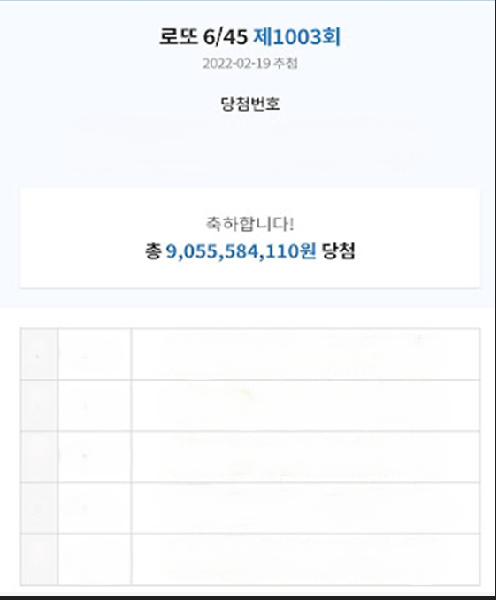
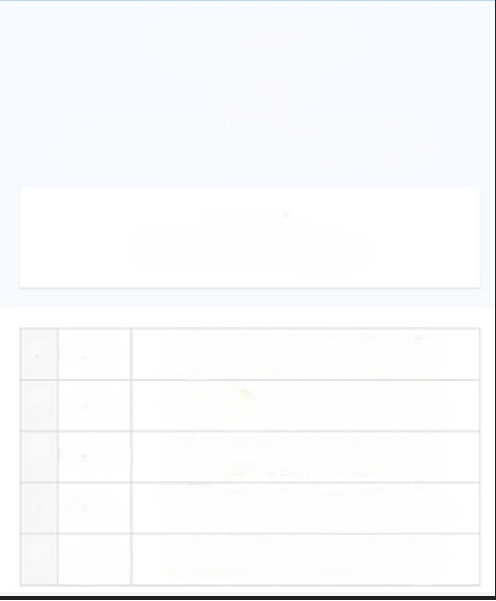
Last 작업 완료
병합만 남았습니다.

Changed region(s): [[0.2722, 0.3594, 0.7258, 0.4493], [0.3024, 0.03, 0.6956, 0.1198], [0.4234, 0.1498, 0.5746, 0.2097]]

diff --git a/LottoProject/src/kr/co/lotto/LottoLast.java b/LottoProject/src/kr/co/lotto/LottoLast.java
@@ -2,6 +2,7 @@ package kr.co.lotto;
 
 import java.awt.Color;
 import java.awt.Dimension;
+import java.awt.Font;
 import java.util.ArrayList;
 import java.util.Arrays;
 import java.util.HashMap;
@@ -12,6 +13,7 @@ import java.util.Random;
 import java.util.Set;
 import java.util.TreeSet;
 
+import javax.swing.Icon;
 import javax.swing.ImageIcon;
 import javax.swing.JButton;
 import javax.swing.JFrame;
@@ -38,15 +40,45 @@ public class LottoLast extends JFrame {
 		Map<String, List<Integer>> map = l.map;
 		JLabel pnl = new JLabel();
 		List<Integer> list = new ArrayList<Integer>();
-		ImageIcon icon = new ImageIcon(LottoLast.class.getResource("/kr/co/lotto/로또1.png"));
-		ImageIcon icon2 = new ImageIcon(LottoLast.class.getResource("/kr/co/lotto/lotto.png"));
+		ImageIcon icon = new ImageIcon(LottoLast.class.getResource("/kr/co/lotto/lotto.png"));
+		ImageIcon icon2 = new ImageIcon(LottoLast.class.getResource("/kr/co/lotto/lottoLog.png"));
+		ImageIcon icon3 = new ImageIcon(LottoLast.class.getResource("/kr/co/lotto/lottoLog2.png"));
+		ImageIcon icon4 = new ImageIcon(LottoLast.class.getResource("/kr/co/lotto/핑크원형.png"));
+		ImageIcon icon5 = new ImageIcon(LottoLast.class.getResource("/kr/co/lotto/핑크원형10.png"));
+		ImageIcon icon6 = new ImageIcon(LottoLast.class.getResource("/kr/co/lotto/핑크원형20.png"));
+		ImageIcon icon7 = new ImageIcon(LottoLast.class.getResource("/kr/co/lotto/핑크원형30.png"));
+		ImageIcon icon8 = new ImageIcon(LottoLast.class.getResource("/kr/co/lotto/핑크원형40.png"));
+		ImageIcon icon9 = new ImageIcon(LottoLast.class.getResource("/kr/co/lotto/lotto축하.jpg"));
 		char c = 'A'; // 최초 번호 부여
+		// 제목 메소드
+//		JLabel lbG = new JLabel("로또 6/45 제 1회");
+//		lbG.setBounds(180, 50, 200, 100);
+//		lbG.setFont(new Font("로또 6/45 제 1회?", Font.BOLD, 20));
+//		lbG.setForeground(Color.PINK);
+//		pnl.add(lbG);
+
+		// 당첨번호 라벨
+		JLabel lbLo = new JLabel("당첨번호");
+		lbLo.setBounds(200, 110, 200, 100);
+		lbLo.setFont(new Font(" ", Font.BOLD, 25));
+		pnl.add(lbLo);
+
+		// 로또 로고
+		JLabel lbLog = new JLabel();
+		lbLog.setIcon(icon2);
+		lbLog.setBounds(0, 0, 500, 130);
+		pnl.add(lbLog);
+		// 로또 밑에 로고
+		JLabel lbLog2 = new JLabel();
+		lbLog2.setIcon(icon3);
+		lbLog2.setBounds(getX(), 630, 500, 40);
+		pnl.add(lbLog2);
 
 		List<Integer> listS = new ArrayList<Integer>();
 		for (Integer i : set) {
 			listS.add(i);
 		}
-	// 임의의 값 넣는 조건
+		// 임의의 값 넣는 조건
 		for (int j = 1; j < 7; j++) {
 			list.add(j);
 		}
@@ -56,25 +88,42 @@ public class LottoLast extends JFrame {
 			map.put(String.valueOf(c2), list);
 		}
 // 당첨 번호 출력 + 보너스 번호 출력
-		int x = 40;
+		int x = 0;
 		int y = 180;
 		int count = 0;
 		for (int i = 0; i < listS.size(); i++) {
 			char c2 = (char) (c + i);
 			String s = String.valueOf(c2);
 			if (i == listS.size() - 1) {
-				x += 30;
+				x += 50;
 				JLabel lb2 = new JLabel();
 				lb2.setText("보너스");
-				lb2.setBounds(x, y, 50, 50);
+				lb2.setBounds(x, y, 60, 60);
+				lb2.setHorizontalTextPosition(JLabel.CENTER);
+				lb2.setFont(new Font(" ", Font.BOLD, 15));
 				pnl.add(lb2);
+			} else {
+				x += 50;
+				JLabel lb2 = new JLabel();
+				lb2.setText("" + listS.get(i));
+				lb2.setHorizontalTextPosition(JLabel.CENTER);
+				lb2.setFont(new Font(" ", Font.BOLD, 17));
+				lb2.setForeground(Color.WHITE);
+				lb2.setBounds(x, y, 60, 60);
+				pnl.add(lb2);
+				// 숫자 크기별 이미 넣기
+				int a = listS.get(i);
+				숫자크기별이미지(a, icon4, icon5, icon6, icon7, icon8, lb2);
 			}
-			x += 50;
-			JLabel lb2 = new JLabel();
-			lb2.setText("" + listS.get(i));
-			lb2.setBounds(x, y, 50, 50);
-			pnl.add(lb2);
+			
 		}
+		// 당첨에 따라 출력
+		int first = 0;
+		int second = 0;
+		int third = 0;
+		int four = 0;
+		int five = 0;
+		int mess = 0;
 		// 당첨 여부 조회
 		// 당첨 번호와 조회
 		int clap = 0;
@@ -82,7 +131,7 @@ public class LottoLast extends JFrame {
 		int clap1 = 0;
 		int x2 = 70;
 		int y2 = 380;
-
+		// 당첨번호 조회 메소드
 		for (int i = 0; i < map.size(); i++) {
 			char c2 = (char) (c + i);
 			String s = String.valueOf(c2);
@@ -98,79 +147,141 @@ public class LottoLast extends JFrame {
 						}
 					}
 				}
-				
 			}
+
 			if (clap == 3) {
-				JLabel lbD = new JLabel();
-				lbD.setText("5등당첨");
-				lbD.setBounds(x2, y2, 50, 50);
-				pnl.add(lbD);
+				// 5등
+				당첨메소드(pnl, x2, y2, 5);
+				five++;
 			} else if (clap == 4) {
-				JLabel lbD = new JLabel();
-				lbD.setText("4등당첨");
-				lbD.setBounds(x2, y2, 50, 50);
-				pnl.add(lbD);
+				// 4등
+				당첨메소드(pnl, x2, y2, 4);
+				four++;
 			} else if (clap == 5) {
-				JLabel lbD = new JLabel();
-				lbD.setText("3등당첨");
-				lbD.setBounds(x2, y2, 50, 50);
-				pnl.add(lbD);
+				// 3등
+				당첨메소드(pnl, x2, y2, 3);
+				third++;
 			} else if (clap == 5 && clap1 == 1) {
-				JLabel lbD = new JLabel();
-				lbD.setText("2등당첨");
-				lbD.setBounds(x2, y2, 50, 50);
-				pnl.add(lbD);
+				// 2등
+				당첨메소드(pnl, x2, y2, 2);
+				second++;
 			} else if (clap == 6) {
-				JLabel lbD = new JLabel();
-				lbD.setText("1등당첨");
-				lbD.setBounds(x2, y2, 50, 50);
-				pnl.add(lbD);
+				// 1등
+				당첨메소드(pnl, x2, y2, 1);
+				first++;
 			} else {
-				JLabel lbD = new JLabel();
-				lbD.setText("미당첨");
-				lbD.setBounds(x2, y2, 50, 50);
-				pnl.add(lbD);
+				// 꽝...
+				당첨메소드(pnl, x2, y2, 0);
+				mess++;
 			}
 			y2 += 51;
 			clap = 0;
 			clap1 = 0;
 		}
 
+		if (first > 0) {
+			당첨메시지출력(pnl, 1, icon9);
+		} else if (second > 0 && first <= 0) {
+			당첨메시지출력(pnl, 2, icon9);
+		} else if (third > 0 && second <= 0 && first <= 0) {
+			당첨메시지출력(pnl, 3, null);
+		} else if (four > 0 && third <= 0 && second <= 0 && first <= 0) {
+			당첨메시지출력(pnl, 4, null);
+		} else if (five > 0 && four <= 0 && third <= 0 && second <= 0 && first <= 0) {
+			당첨메시지출력(pnl, 5, null);
+		} else if (mess > 0 && five <= 0 && four <= 0 && third <= 0 && second <= 0 && first <= 0) {
+			당첨메시지출력(pnl, 0, null);
+		}
+
 // 유저정보 출력
-		int x1 = 150;
-		int y1 = 380;
+		int x1 = 145;
+		int y1 = 385;
 		for (int i = 0; i < map.size(); i++) {
 			char c2 = (char) (c + i);
 			String s = String.valueOf(c2);
 			JLabel lb1 = new JLabel();
 			lb1.setText("" + s);
-			lb1.setBounds(x1-115, y1, 50, 50);
+			lb1.setBounds(x1 - 125, y1, 50, 50);
+			lb1.setFont(new Font(" ", Font.BOLD, 15));
 			pnl.add(lb1);
 			for (int j = 0; j < map.get(s).size(); j++) {
 				JLabel lb = new JLabel();
 				lb.setText("" + map.get(s).get(j));
-				// 이미지 위에 글자 출력
 				lb.setBounds(x1, y1, 40, 40);
+				lb.setFont(new Font(" ", Font.BOLD, 15));
+				lb.setHorizontalTextPosition(JLabel.CENTER);
 				pnl.add(lb);
-				x1 += 60;
+				x1 += 55;
+				int a = map.get(s).get(j);
+				숫자크기별이미지(a, icon4, icon5, icon6, icon7, icon8, lb);
 			}
-			x1 -= (60 * map.get(s).size());
+			x1 -= (55 * map.get(s).size());
 			y1 += 52;
 		}
 		pnl.setBounds(0, 0, 500, 700);
 		pnl.setLayout(null);
 		setLayout(null);
 		add(pnl);
-		pnl.setIcon(icon2);
+		pnl.setIcon(icon);
 		setBounds(0, 0, 500, 700);
 		setDefaultCloseOperation(EXIT_ON_CLOSE);
+	}
+// 숫자 크기별 이미지 넣기
+	private void 숫자크기별이미지(int a, ImageIcon icon4, ImageIcon icon5, ImageIcon icon6,
+			ImageIcon icon7, ImageIcon icon8, JLabel lb) {
+		if (a > 0 && a < 11) {
+			lb.setIcon(icon4);
+		} else if (a >= 11 && a < 21) {
+			lb.setIcon(icon5);
+		} else if (a >= 21 && a < 31) {
+			lb.setIcon(icon6);
+		} else if (a >= 31 && a < 41) {
+			lb.setIcon(icon7);
+		} else {
+			lb.setIcon(icon8);
+		}
+	}
+
+// 당첨 여부에 따라 메시지 출력
+	private void 당첨메시지출력(JLabel pnl, int d, Icon icon) {
+		JLabel lp = new JLabel();
+		if (d == 0) {
+			lp.setText("안타깝게 되었습니다..");
+		} else if (d <= 5 && d >= 3) {
+			lp.setText("축하드립니다 " + d + "등 당첨이 되셨습니다.");
+		} else if (d < 3) {
+			lp.setText("축하드립니다 " + d + "등 당첨이 되셨습니다!");
+			JLabel pink = new JLabel();
+			pink.setIcon(icon);
+			pink.setBounds(20, 250, 60, 60);
+			pnl.add(pink);
+		}
+
+		lp.setBounds(0, 230, 500, 100);
+		lp.setHorizontalAlignment(SwingConstants.CENTER);
+		lp.setFont(new Font(" ", Font.BOLD, 20));
+		pnl.add(lp);
+	}
+
+// 당첨 중복 메소드
+	private void 당첨메소드(JLabel pnl, int x2, int y2, int dl) {
+
+		JLabel lbD = new JLabel();
+		if (dl == 0) {
+			lbD.setText("미당첨");
+		} else {
+			lbD.setText(dl + "등당첨");
+		}
+		lbD.setBounds(x2, y2, 60, 50);
+		lbD.setFont(new Font(" ", Font.BOLD, 14));
+		pnl.add(lbD);
 	}
 
 // 1등 추첨번호 출력
 	private void SetReset() {
 		while (true) {
 			for (int i = 0; i < 7; i++) {
-				int a = r.nextInt(8)+1;
+				int a = r.nextInt(45) + 1;
 				set.add(a);
 			}
 			if (set.size() > 6) {
